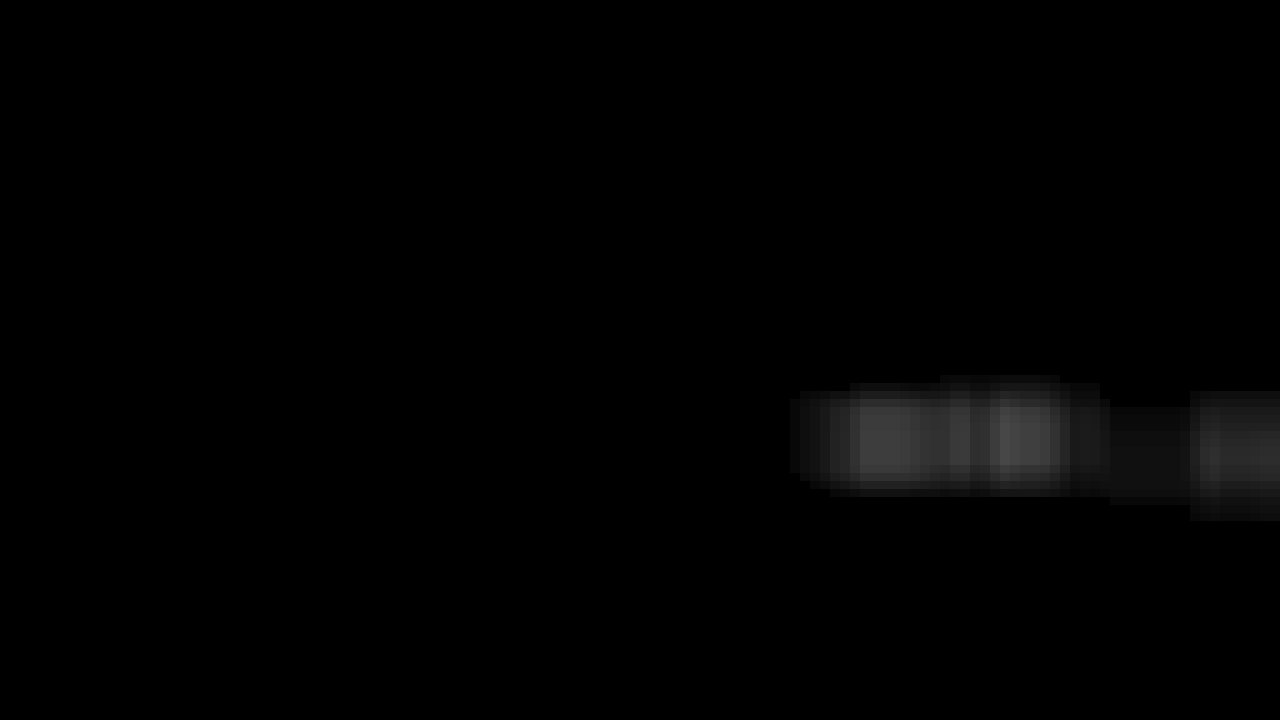
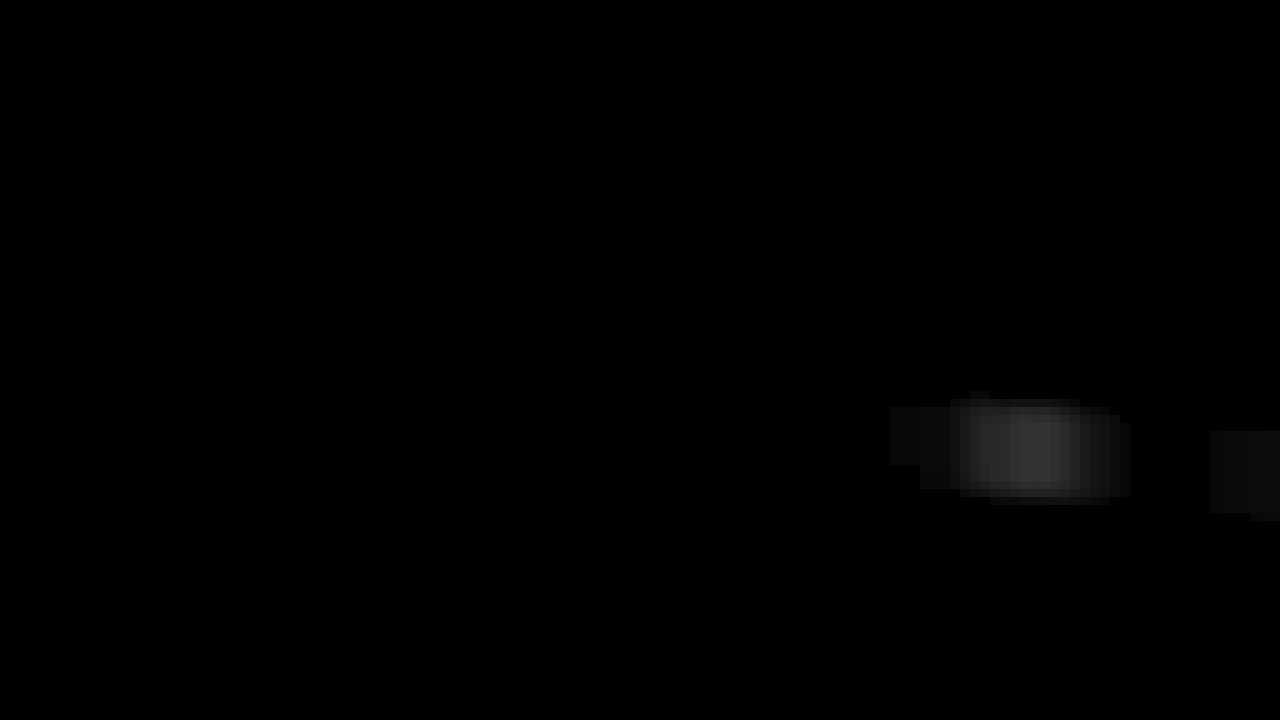
Done

Changed region(s): [[0.625, 0.5194, 0.8125, 0.7028], [0.9062, 0.55, 1.0, 0.7028]]

diff --git a/main.py b/main.py
@@ -3,11 +3,11 @@
 """
 import os
 import time
-import pandas as pd
+
+from scipy.ndimage.measurements import label
 from sklearn.model_selection import train_test_split
 from sklearn.preprocessing import StandardScaler
 from sklearn.svm import LinearSVC
-from scipy.ndimage.measurements import label
 
 import config
 from lessons import *
@@ -47,7 +47,7 @@ class DetectVehicles(object):
         windows = self.slide_window(draw_image, x_start_stop=[690, None], y_start_stop=[375, 430],
                                     xy_window=(110, 90), xy_overlap=config.xy_overlap)
         windows += self.slide_window(draw_image, x_start_stop=[760, None], y_start_stop=[375, 560],
-                                         xy_window=(110, 90), xy_overlap=config.xy_overlap)
+                                     xy_window=(110, 90), xy_overlap=config.xy_overlap)
         hot_windows = self.search_windows(draw_image, windows, self.fit_model, self.X_scaler)
 
         # draw_img = self.draw_boxes(img, hot_windows, color=(0, 0, 200), thick=6)
@@ -71,10 +71,13 @@ class DetectVehicles(object):
             # Call get_hog_features() with vis=False, feature_vec=True
             if self.hog_channel == 'ALL':
                 hog_features = []
+                self.hog_images = []
                 for channel in range(feature_image.shape[2]):
-                    hog_features.append(get_hog_features(feature_image[:, :, channel],
-                                                         self.orient, self.pix_per_cell, self.cell_per_block,
-                                                         vis=True, feature_vec=True))
+                    hog_feature, hog_image = get_hog_features(feature_image[:, :, channel],
+                                                               self.orient, self.pix_per_cell, self.cell_per_block,
+                                                               vis=True, feature_vec=True)
+                    hog_features.append(hog_feature)
+                    self.hog_images.append(hog_image)
                 hog_features = np.ravel(hog_features)
             else:
                 hog_features = get_hog_features(feature_image[:, :, self.hog_channel], self.orient,
@@ -317,6 +320,8 @@ def test_pipe(svc, X_scaler):
         image = imageio.imread(img)
         new = det.draw_on_image(image)
         cv2.imwrite('final_{0}.png'.format(img.split('/')[-1].split('.')[0]), new)
+        break
+    return det
 
 
 def centroid_function(detections, img):

diff --git a/lessons.py b/lessons.py
@@ -33,8 +33,8 @@ def get_hog_features(img, orient, pix_per_cell, cell_per_block,
                                   cells_per_block=(cell_per_block, cell_per_block),
                                   transform_sqrt=True,
                                   visualise=vis, feature_vector=feature_vec)
-        cv2.imwrite('hog_features.png', hog_image)
-        return features
+        # cv2.imwrite('hog_features.png', hog_image)
+        return features, hog_image
     # Otherwise call with one output
     else:
         features = hog(img, orientations=orient,

diff --git a/README.md b/README.md
@@ -17,8 +17,8 @@ The goals / steps of this project are the following:
 [image4]: ./non-vehicles/GTI/image1043.png
 [image5]: ./vehicles/GTI_Far/image0074.png
 [image6]: ./heatmap.png
-[image7]: ./examples/output_bboxes.png
-[video1]: ./project_video.mp4
+[image7]: ./hog_image.png
+[video1]: ./project_video_annotated.mp4
 
 ## [Rubric](https://review.udacity.com/#!/rubrics/513/view) Points
 ###Here I will consider the rubric points individually and describe how I addressed each point in my implementation.  
@@ -46,8 +46,11 @@ I then explored different color spaces and different `skimage.hog()` parameters 
 
 Here is an example using the `YCrCb` color space and HOG parameters of `orientations=7`, `pixels_per_cell=(8, 8)` and `cells_per_block=(2, 2)`:
 
+Here are the hog features:
+![alt text][image7]
 
 ![alt text][image2]
+
 
 ####2. Explain how you settled on your final choice of HOG parameters.
 
